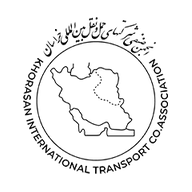
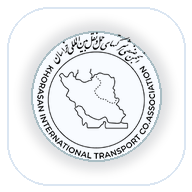
Improve company UI and dashboard layouts

diff --git a/public/driver/index.html b/public/driver/index.html
@@ -5,12 +5,15 @@
     <meta name="viewport" content="width=device-width, initial-scale=1.0, maximum-scale=1.0, user-scalable=no, viewport-fit=cover">
     <title>دوزوله | کارتابل راننده</title>
 
-    <link rel="manifest" href="manifest.json?v=6.0">
+    <link rel="manifest" href="manifest.json?v=6.1">
     <meta name="theme-color" content="#07111f">
     <meta name="apple-mobile-web-app-capable" content="yes">
     <meta name="apple-mobile-web-app-status-bar-style" content="black-translucent">
+    <link rel="icon" type="image/png" sizes="192x192" href="icon-192.png?v=6.1">
+    <link rel="apple-touch-icon" sizes="152x152" href="apple-touch-icon-152.png?v=6.1">
+    <link rel="apple-touch-icon" sizes="180x180" href="apple-touch-icon-180.png?v=6.1">
 
-    <link rel="stylesheet" href="assets/css/app.css?v=6.0">
+    <link rel="stylesheet" href="assets/css/app.css?v=6.1">
 </head>
 <body>
 
@@ -84,6 +87,6 @@
     <div id="toast-container"></div>
     <div id="modal-container"></div>
 
-    <script src="assets/js/app.js?v=6.0"></script>
+    <script src="assets/js/app.js?v=6.1"></script>
 </body>
 </html>

diff --git a/public/driver/sw.js b/public/driver/sw.js
@@ -1,9 +1,12 @@
 // 👈 تغییر دادن این شماره نسخه در آینده، کِش تمام رانندهها را فوراً آپدیت میکند
-const CACHE_NAME = 'dozoleh-driver-v6.0';
+const CACHE_NAME = 'dozoleh-driver-v6.1';
 const ASSETS = [
     '/driver/',
     '/driver/index.html',
     '/driver/manifest.json',
+    '/driver/icon-192.png',
+    '/driver/icon-512.png',
+    '/driver/apple-touch-icon-180.png',
     '/driver/assets/css/app.css',
     '/driver/assets/js/app.js'
 ];
